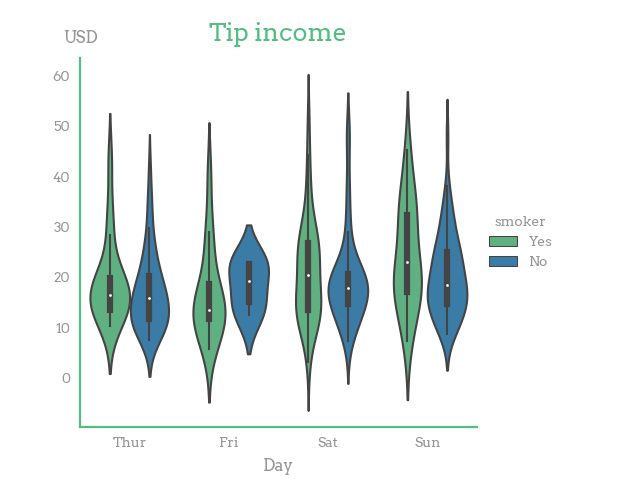
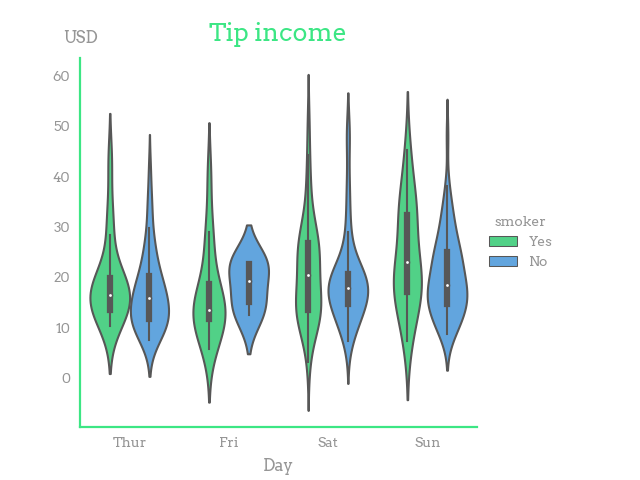
README updates

Changed region(s): [[0.125, 0.2812, 0.8125, 0.7812], [0.125, 0.875, 0.75, 0.9062], [0.3125, 0.0312, 0.5312, 0.0938]]

diff --git a/rootsstyle/__main__.py b/rootsstyle/__main__.py
@@ -57,11 +57,11 @@ style = {
     # COLORS
     "axes.prop_cycle": mpl.cycler(
         color=[
-            colors["green_light+"],
             colors["green_light"],
-            colors["green_dark"],
             colors["blue_light"],
+            colors["green_light+"],
             colors["blue_dark"],
+            colors["green_dark"],
             colors["blue_navy"],
             colors["gray"],
             colors["gray_light"],

diff --git a/README.md b/README.md
@@ -39,6 +39,13 @@ plt.style.use(rootsstyle.style)
 with plt.style.context(rootsstyle.style):
     # ...
 ```
+```python
+#More functionalities
+
+'Place the legend to the left of the graph': rootsstyle.legend()
+'Place the legend of each line next to the line': rootsstyle.legend_line()
+'Horizontal label of y-axis above the yaxis': rootsstyle.ylabel()
+```
 
 ## Color Palette
 <div align="center">
